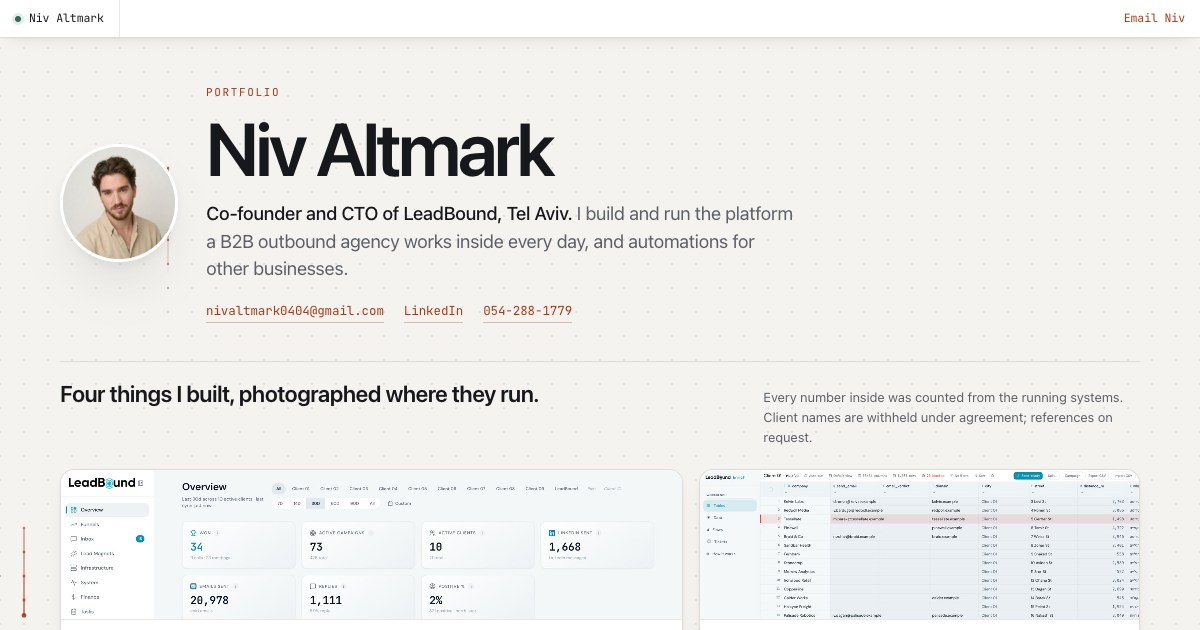
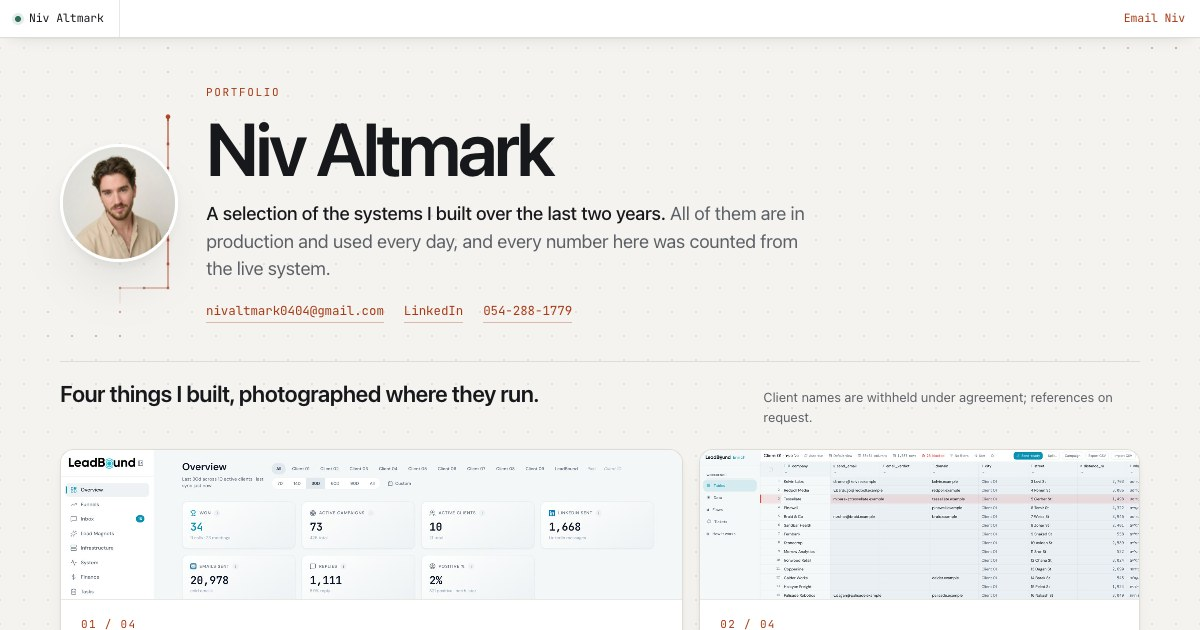
Publish the portfolio

diff --git a/index.html b/index.html
@@ -513,9 +513,9 @@
         <div>
           <p class="me-k mono">Portfolio</p>
           <h1 class="me-n"><span>Niv</span> <span>Altmark</span></h1>
-          <p class="me-r">Co-founder and CTO of LeadBound, Tel Aviv.
-            <span>I build and run the platform a B2B outbound agency works inside
-            every day, and automations for other businesses.</span></p>
+          <p class="me-r">A selection of the systems I built over the last two years.
+            <span>All of them are in production and used every day, and every number
+            here was counted from the live system.</span></p>
           <p class="me-l">
             <a href="mailto:nivaltmark0404@gmail.com">nivaltmark0404@gmail.com</a>
             <a href="https://www.linkedin.com/in/nivaltmark/" rel="noopener">LinkedIn</a>
@@ -525,8 +525,7 @@
 
       <div class="pix-h" data-sc-in>
         <h2 class="pix-t">Four things I built, photographed where they run.</h2>
-        <p class="pix-s">Every number inside was counted from the running systems.
-          Client names are withheld under agreement; references on request.</p>
+        <p class="pix-s">Client names are withheld under agreement; references on request.</p>
       </div>
 
       <nav class="pix" aria-label="The four projects" data-sc-in>
